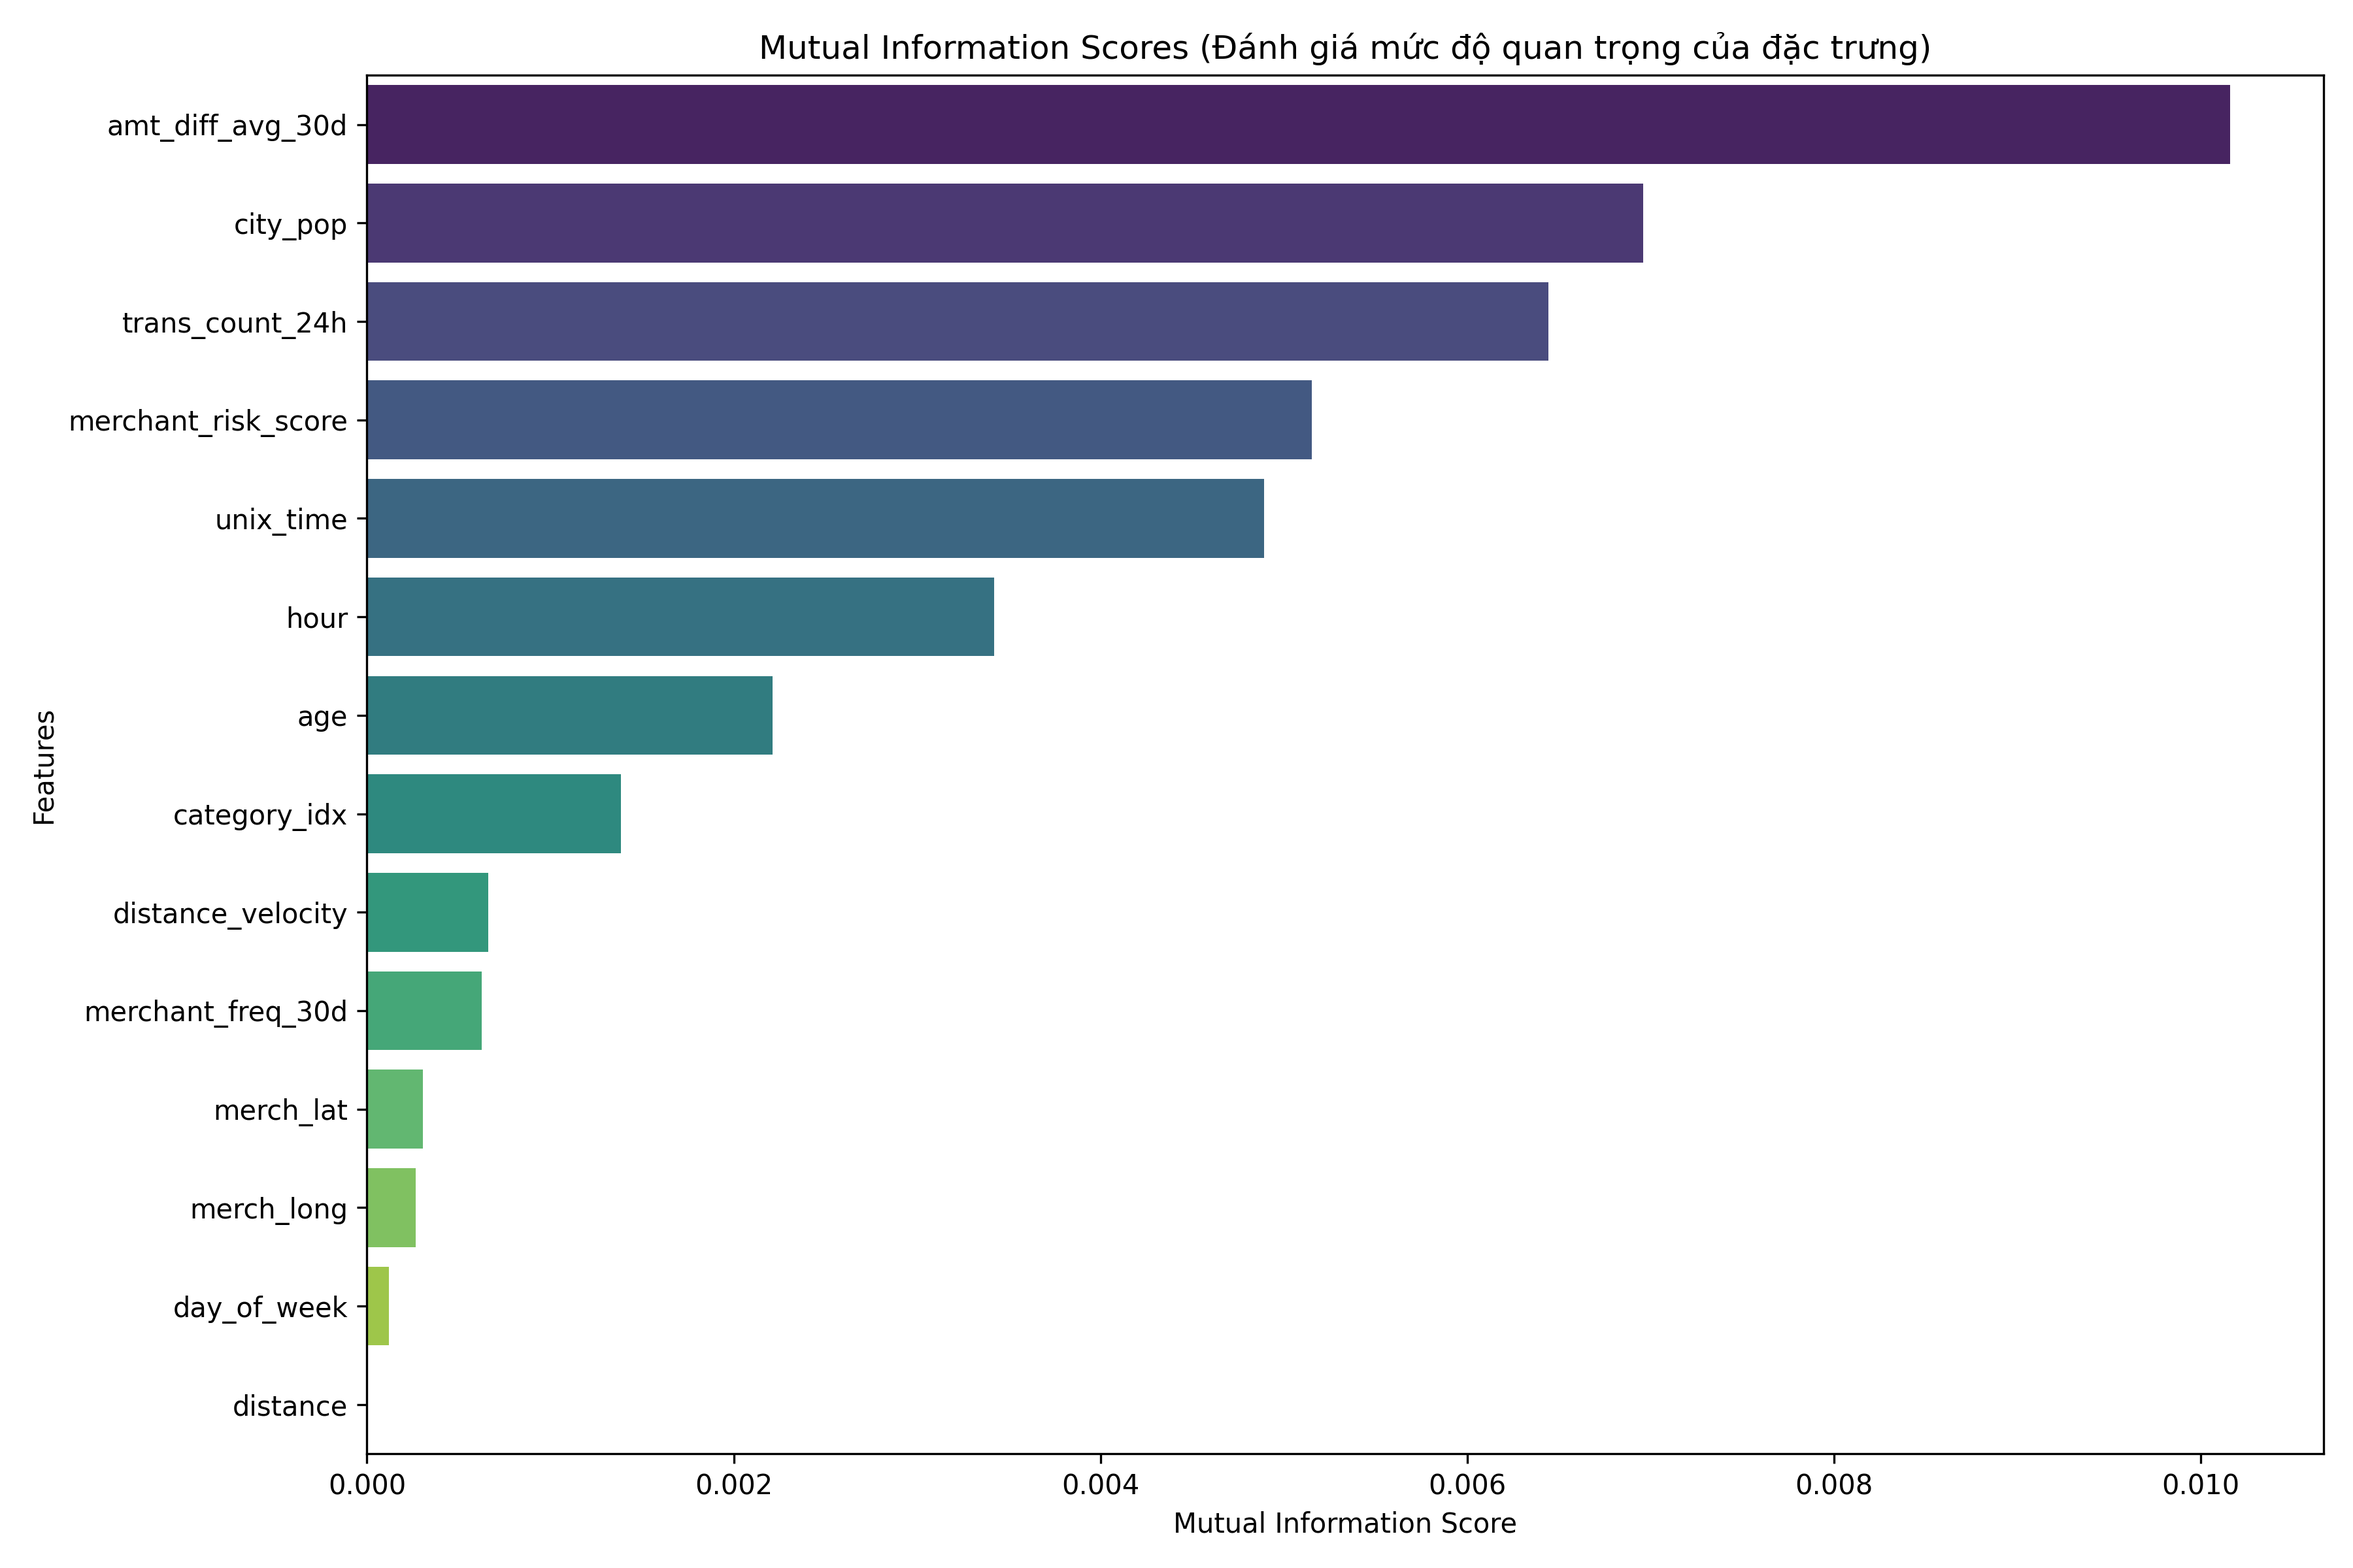
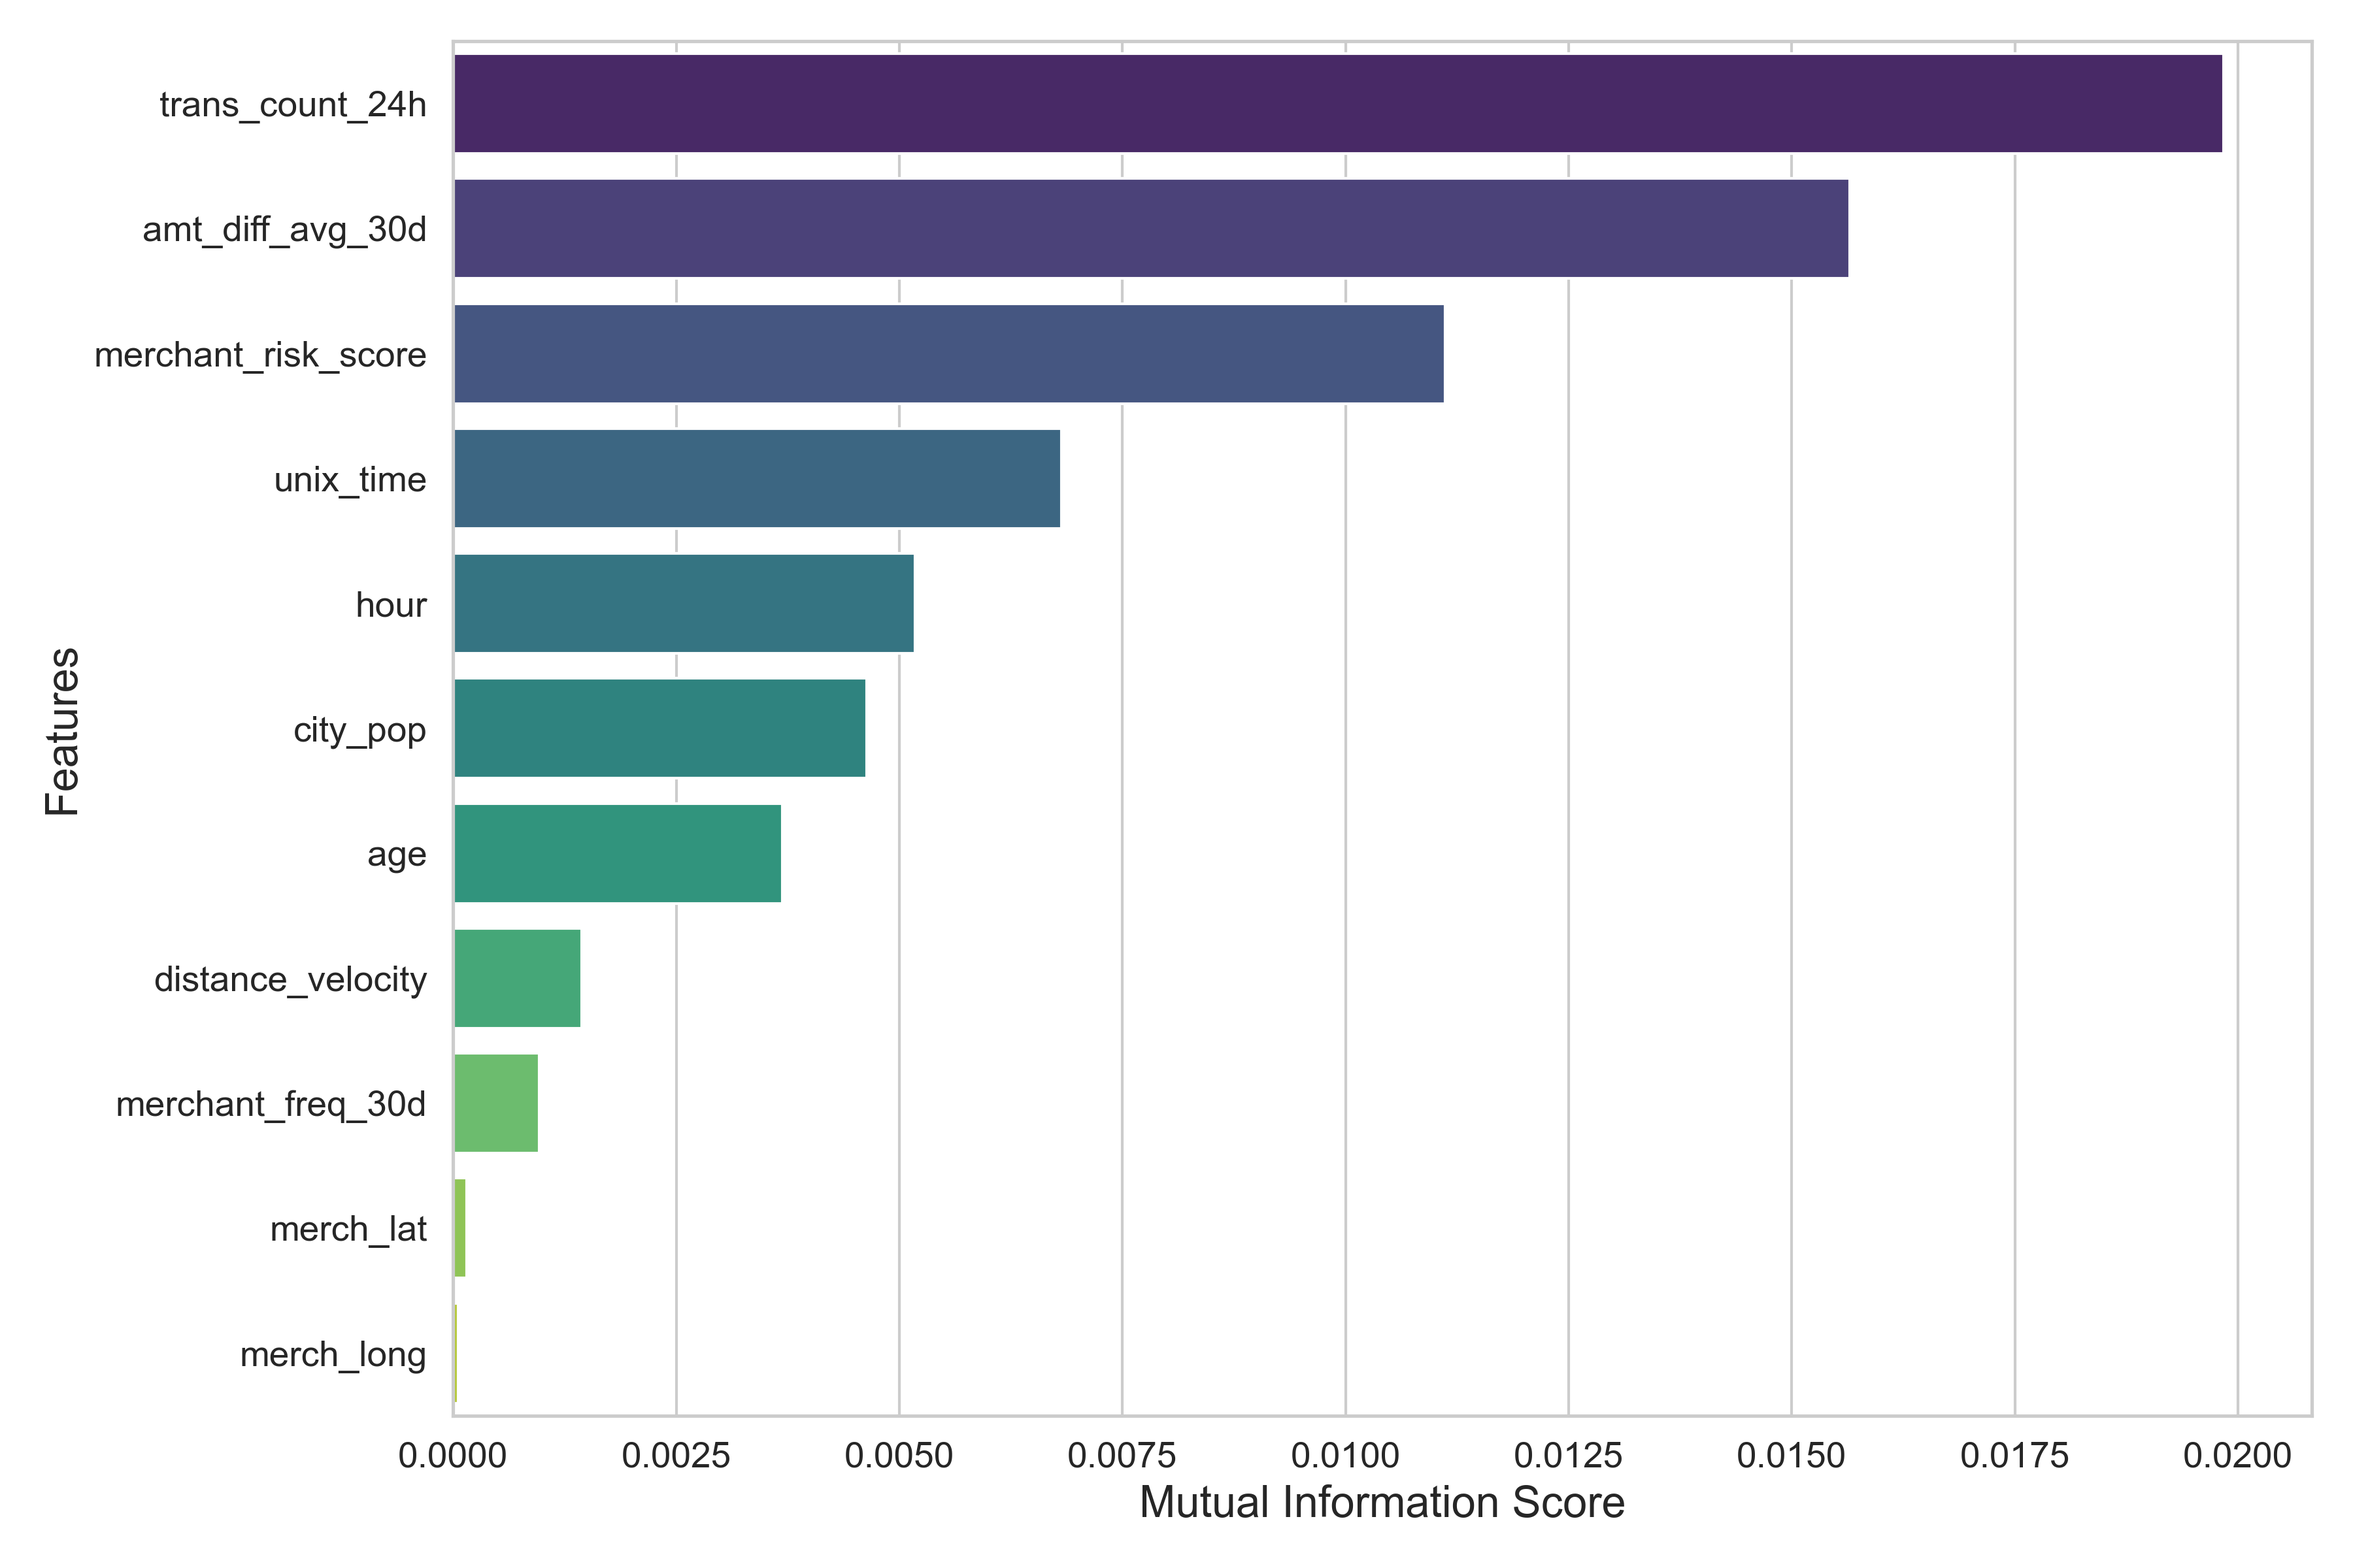
fraud: update code

diff --git a/p2pfl/examples/fraud/evaluate_data.py b/p2pfl/examples/fraud/evaluate_data.py
@@ -9,6 +9,10 @@ def generate_and_save_charts(train_path, test_path, label_col="is_fraud", output
     # 1. Tạo thư mục lưu ảnh nếu chưa có
     os.makedirs(output_dir, exist_ok=True)
     
+    # Thiết lập kích thước chữ chung
+    sns.set_theme(style="whitegrid", font_scale=1.2)
+    plt.rcParams.update({'font.size': 14, 'axes.titlesize': 18, 'axes.labelsize': 16})
+
     print("Đang tải dữ liệu...")
     if not os.path.exists(train_path) or not os.path.exists(test_path):
         print(f"Lỗi: Không tìm thấy file dữ liệu tại {train_path} hoặc {test_path}!")
@@ -17,7 +21,7 @@ def generate_and_save_charts(train_path, test_path, label_col="is_fraud", output
     train_df = pd.read_csv(train_path)
     test_df = pd.read_csv(test_path)
     
-    # 2. Biểu đồ phân phối nhãn (Class Imbalance) - So sánh Train vs Test
+   
     print("Đang vẽ biểu đồ phân phối nhãn (Train vs Test)...")
     fig, axes = plt.subplots(2, 2, figsize=(16, 12))
     
@@ -44,11 +48,12 @@ def generate_and_save_charts(train_path, test_path, label_col="is_fraud", output
     plt.tight_layout()
     plt.savefig(os.path.join(output_dir, "1_class_distribution_comparison.png"), dpi=300)
     plt.close()
-    
+
     # 3. Biểu đồ nhiệt ma trận tương quan (Correlation Heatmap) cho cả hai
     print("Đang vẽ biểu đồ ma trận tương quan...")
     for name, df in [("Train", train_df), ("Test", test_df)]:
-        numeric_df = df.select_dtypes(include=['number'])
+        # Loại bỏ is_fraud khỏi ma trận tương quan
+        numeric_df = df.select_dtypes(include=['number']).drop(columns=[label_col], errors='ignore')
         if not numeric_df.empty:
             plt.figure(figsize=(12, 10))
             corr_matrix = numeric_df.corr()
@@ -58,7 +63,7 @@ def generate_and_save_charts(train_path, test_path, label_col="is_fraud", output
                     mask.iloc[i, j] = True
             
             sns.heatmap(corr_matrix, mask=mask, annot=False, cmap="coolwarm", linewidths=0.5)
-            plt.title(f"Ma trận tương quan - Tập {name}")
+            # plt.title(f"Ma trận tương quan - Tập {name} (Không bao gồm {label_col})", fontsize=18, fontweight='bold')
             plt.tight_layout()
             plt.savefig(os.path.join(output_dir, f"2_correlation_{name.lower()}.png"), dpi=300)
             plt.close()
@@ -66,13 +71,17 @@ def generate_and_save_charts(train_path, test_path, label_col="is_fraud", output
     # 4. Biểu đồ Boxplot so sánh phân phối đặc trưng giữa Train và Test
     print("Đang vẽ biểu đồ Boxplot so sánh đặc trưng...")
     numeric_cols = [col for col in train_df.select_dtypes(include=['number']).columns if col != label_col]
-    features_to_plot = numeric_cols[:4]  # Lấy 4 đặc trưng đầu tiên để minh họa
+    # Ưu tiên các biến quan trọng để đánh giá việc chọn dữ liệu
+    priority_features = ["amt", "log_amt", "amt_zscore", "distance_velocity", "age"]
+    features_to_plot = [f for f in priority_features if f in numeric_cols]
+    if not features_to_plot:
+        features_to_plot = numeric_cols[:4]
     
     if features_to_plot:
         # Chuẩn bị dữ liệu gộp để vẽ boxplot so sánh
-        train_temp = train_df[features_to_plot + [label_col]].copy()
+        train_temp = train_df[features_to_plot].copy()
         train_temp['Dataset'] = 'Train'
-        test_temp = test_df[features_to_plot + [label_col]].copy()
+        test_temp = test_df[features_to_plot].copy()
         test_temp['Dataset'] = 'Test'
         combined_df = pd.concat([train_temp, test_temp])
 
@@ -80,14 +89,19 @@ def generate_and_save_charts(train_path, test_path, label_col="is_fraud", output
         if len(features_to_plot) == 1: axes = [axes]
             
         for i, col in enumerate(features_to_plot):
-            sns.boxplot(x='Dataset', y=col, hue=label_col, data=combined_df, ax=axes[i], palette='Set2')
-            axes[i].set_title(f'So sánh phân phối {col}')
+            # Loại bỏ hue=label_col để chỉ so sánh phân phối giữa các tập dữ liệu
+            # Cập nhật theo khuyến nghị của Seaborn: gán hue='Dataset' và legend=False
+            sns.boxplot(x='Dataset', y=col, hue='Dataset', data=combined_df, ax=axes[i], palette='Set2', legend=False)
+            # axes[i].set_title(f'So sánh {col}', fontsize=20, fontweight='bold')
+            axes[i].set_xlabel('Tập dữ liệu', fontsize=16)
+            axes[i].set_ylabel(col, fontsize=16)
+            axes[i].tick_params(labelsize=14)
             
         plt.tight_layout()
         plt.savefig(os.path.join(output_dir, "3_feature_distribution_comparison.png"), dpi=300)
         plt.close()
 
-    # 5. Đánh giá đặc trưng bằng Mutual Information (MI)
+
     print("Đang đánh giá Mutual Information...")
     target_features = [
         "city_pop", "unix_time", "merch_lat", "merch_long", "distance",
@@ -101,7 +115,6 @@ def generate_and_save_charts(train_path, test_path, label_col="is_fraud", output
     y = train_df[label_col]
     
     # Xác định đặc trưng rời rạc (Discrete Features) cho MI
-    # Theo danh sách: hour, day_of_week, category_idx là các biến phân loại/rời rạc
     discrete_cols = ["hour", "day_of_week", "category_idx"]
     discrete_mask = [col in discrete_cols for col in available_features]
     
@@ -112,34 +125,19 @@ def generate_and_save_charts(train_path, test_path, label_col="is_fraud", output
     # Vẽ biểu đồ MI Bar Chart
     plt.figure(figsize=(12, 8))
     sns.barplot(x=mi_series.values, y=mi_series.index, hue=mi_series.index, palette='viridis', legend=False)
-    plt.title("Mutual Information Scores (Đánh giá mức độ quan trọng của đặc trưng)")
+    # plt.title("Mutual Information Scores (Đánh giá mức độ quan trọng của đặc trưng)")
     plt.xlabel("Mutual Information Score")
     plt.ylabel("Features")
     plt.tight_layout()
     plt.savefig(os.path.join(output_dir, "4_mutual_information_ranking.png"), dpi=300)
     plt.close()
-    
-    # Tự động lọc các cột có MI <= 0.001
-    final_features = mi_series[mi_series > 0.001].index.tolist()
-    removed_features = mi_series[mi_series <= 0.001].index.tolist()
-    
-    print("-" * 30)
-    print(f"MI Analysis Results (Threshold > 0.001):")
-    print(f"✅ Giữ lại ({len(final_features)}): {final_features}")
-    if removed_features:
-        print(f"❌ Loại bỏ ({len(removed_features)}): {removed_features}")
-    print("-" * 30)
+
 
     print(f"✅ Đã hoàn tất! Các hình ảnh so sánh và đánh giá được lưu tại thư mục: '{output_dir}/'")
 
 if __name__ == "__main__":
     
-    # TRAIN_CSV = "p2pfl/examples/fraud/processed_data/train_processed.csv"
-    # TEST_CSV = "p2pfl/examples/fraud/processed_data/test_processed.csv"
-    
-    # generate_and_save_charts(TRAIN_CSV, TEST_CSV, label_col="is_fraud")
-
-    TRAIN_CSV = "p2pfl/examples/fraud/processed_data/test_preview.csv"
+    TRAIN_CSV = "p2pfl/examples/fraud/processed_data/train_preview.csv"
     TEST_CSV = "p2pfl/examples/fraud/processed_data/test_preview.csv"
     
     generate_and_save_charts(TRAIN_CSV, TEST_CSV, label_col="is_fraud")

diff --git a/p2pfl/examples/fraud/preprocessing_to_evaluate.py b/p2pfl/examples/fraud/preprocessing_to_evaluate.py
@@ -11,7 +11,8 @@ def save_combined_csv(df_raw, df_processed, output_path):
     print(f"Đang kết hợp và lưu file preview tại {output_path}...")
     
     # Chỉ lấy các cột trong df_processed mà CHƯA CÓ trong df_raw (các đặc trưng mới)
-    new_cols = [col for col in df_processed.columns if col not in df_raw.columns]
+    # Loại bỏ các cột One-Hot Encoding (bắt đầu bằng 'cat_') để preview sạch hơn
+    new_cols = [col for col in df_processed.columns if col not in df_raw.columns and not col.startswith('cat_')]
     df_new = df_processed[new_cols]
     
     # Ghép dữ liệu gốc với các đặc trưng mới
@@ -31,6 +32,10 @@ def preprocess(dataset_id="kartik2112/fraud-detection", output_dir="p2pfl/exampl
     print("Loading CSV files...")
     train_df = pd.read_csv(train_path)
     test_df = pd.read_csv(test_path)
+
+    # Drop garbage columns
+    train_df = train_df.drop(columns=['Unnamed: 0'], errors='ignore')
+    test_df = test_df.drop(columns=['Unnamed: 0'], errors='ignore')
     
     # Feature Engineering
     print("Performing feature engineering ...")
@@ -60,10 +65,27 @@ def preprocess(dataset_id="kartik2112/fraud-detection", output_dir="p2pfl/exampl
     # Save Processed
     train_processed_final.to_csv(os.path.join(output_dir, "train_processed.csv"), index=False)
     test_processed_final.to_csv(os.path.join(output_dir, "test_processed.csv"), index=False)
+
+    # Add evaluation columns to the preview (not to the saved processed CSVs to keep them clean for training)
+    def add_eval_features(raw_df, processed_df):
+        eval_df = processed_df.copy()
+        log_amts = []
+        amt_zscores = []
+        for _, row in raw_df.iterrows():
+            key = (row['cc_num'], int(row['unix_time']))
+            beh = transforms.BEHAVIORAL_LOOKUP.get(key, {})
+            log_amts.append(beh.get('log_amt', 0.0))
+            amt_zscores.append(beh.get('amt_zscore', 0.0))
+        eval_df['log_amt'] = log_amts
+        eval_df['amt_zscore'] = amt_zscores
+        return eval_df
+
+    train_preview_processed = add_eval_features(train_raw_final, train_processed_final)
+    test_preview_processed = add_eval_features(test_raw_final, test_processed_final)
     
     # Save Combined Previews (CSV instead of XLSX)
-    save_combined_csv(train_raw_final, train_processed_final, os.path.join(output_dir, "train_preview.csv"))
-    save_combined_csv(test_raw_final, test_processed_final, os.path.join(output_dir, "test_preview.csv"))
+    save_combined_csv(train_raw_final, train_preview_processed, os.path.join(output_dir, "train_preview.csv"))
+    save_combined_csv(test_raw_final, test_preview_processed, os.path.join(output_dir, "test_preview.csv"))
     
     print("✅ Pre-processing complete! (Raw, Processed, and Preview CSVs saved)")
 

diff --git a/p2pfl/examples/fraud/transforms.py b/p2pfl/examples/fraud/transforms.py
@@ -107,6 +107,12 @@ def build_behavioral_lookup(examples):
     temp_df_merch = df_sorted_merch.set_index('trans_date_trans_time')
     df_sorted_merch['merchant_freq_30d'] = temp_df_merch.groupby('merchant')['amt'].transform(lambda x: x.rolling(window='30D', min_periods=1).count()).values
     
+    # Calculate additional metrics for evaluation (not for training)
+    df['log_amt'] = np.log1p(df['amt'])
+    amt_mean = df['amt'].mean()
+    amt_std = df['amt'].std()
+    df['amt_zscore'] = (df['amt'] - amt_mean) / amt_std if amt_std > 0 else 0.0
+    
     # Fill lookup tables
     for _, row in df.iterrows():
         key = (row['cc_num'], int(row['unix_time']))
@@ -117,7 +123,9 @@ def build_behavioral_lookup(examples):
         BEHAVIORAL_LOOKUP[key] = {
             'amt_diff_avg_30d': diff,
             'trans_count_24h': float(row['trans_count_24h']),
-            'distance_velocity': float(row['distance_velocity'])
+            'distance_velocity': float(row['distance_velocity']),
+            'log_amt': float(row['log_amt']),
+            'amt_zscore': float(row['amt_zscore'])
         }
     
     for _, row in df_sorted_merch.iterrows():
